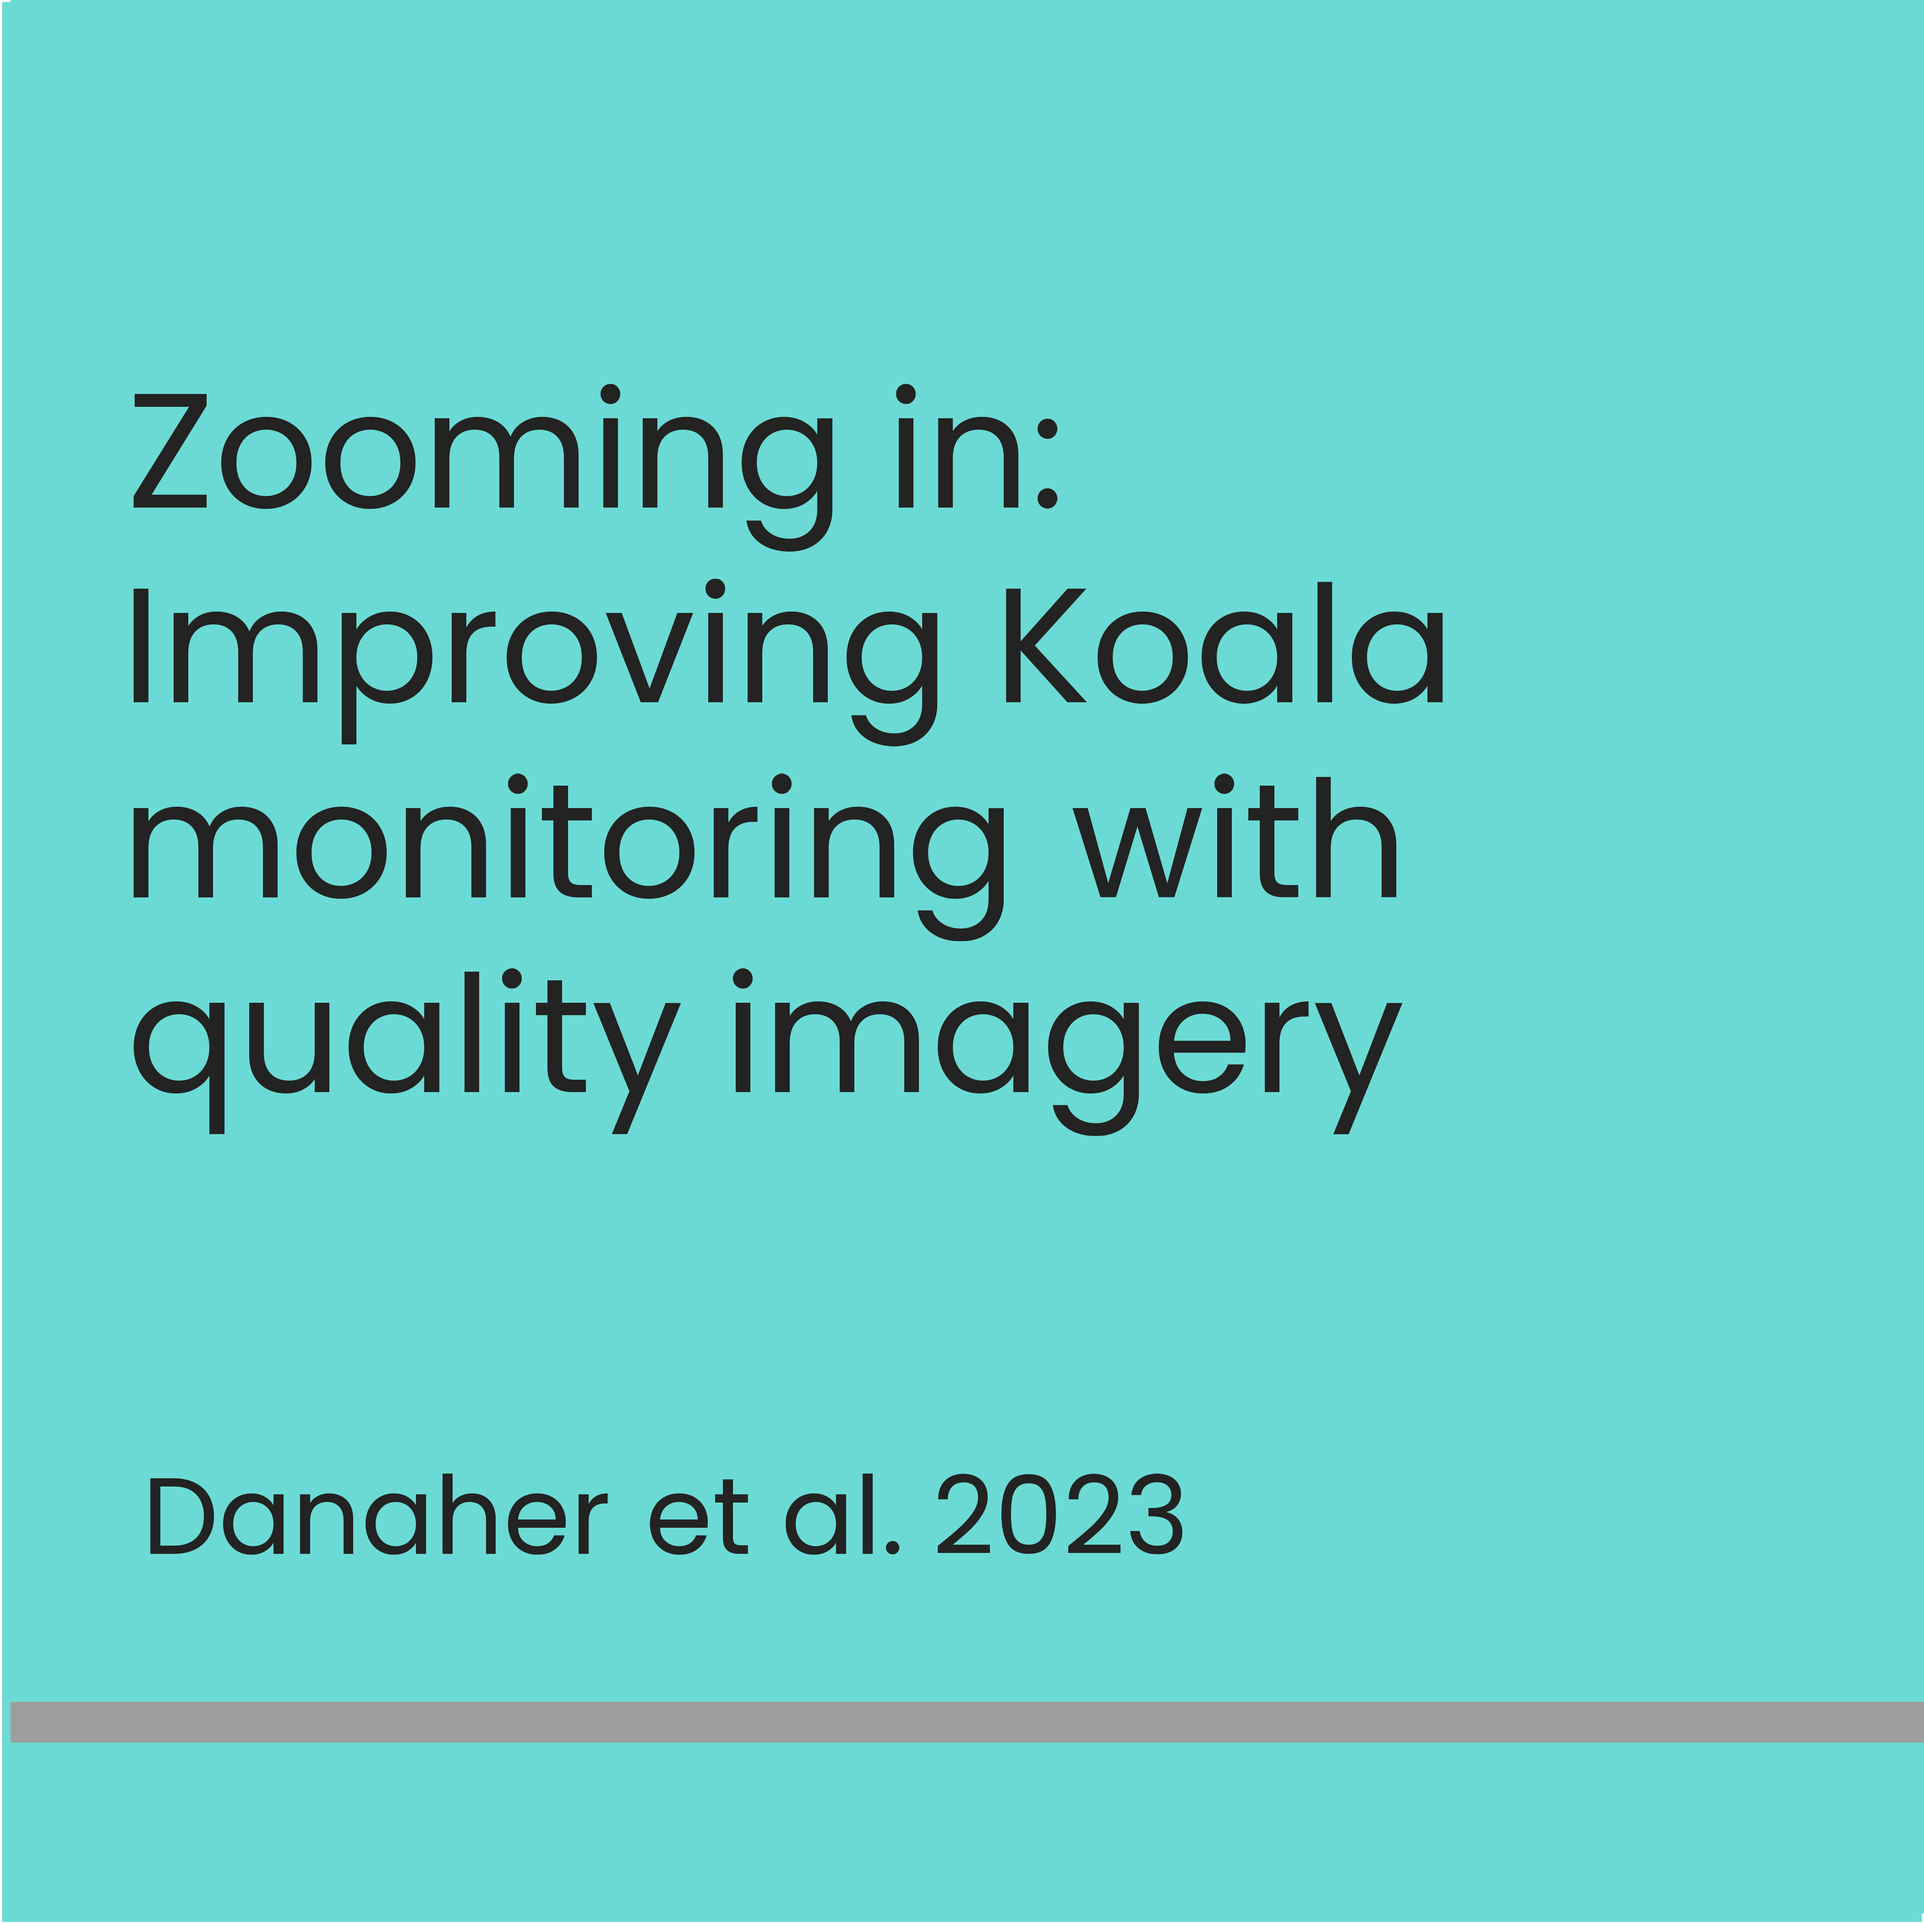
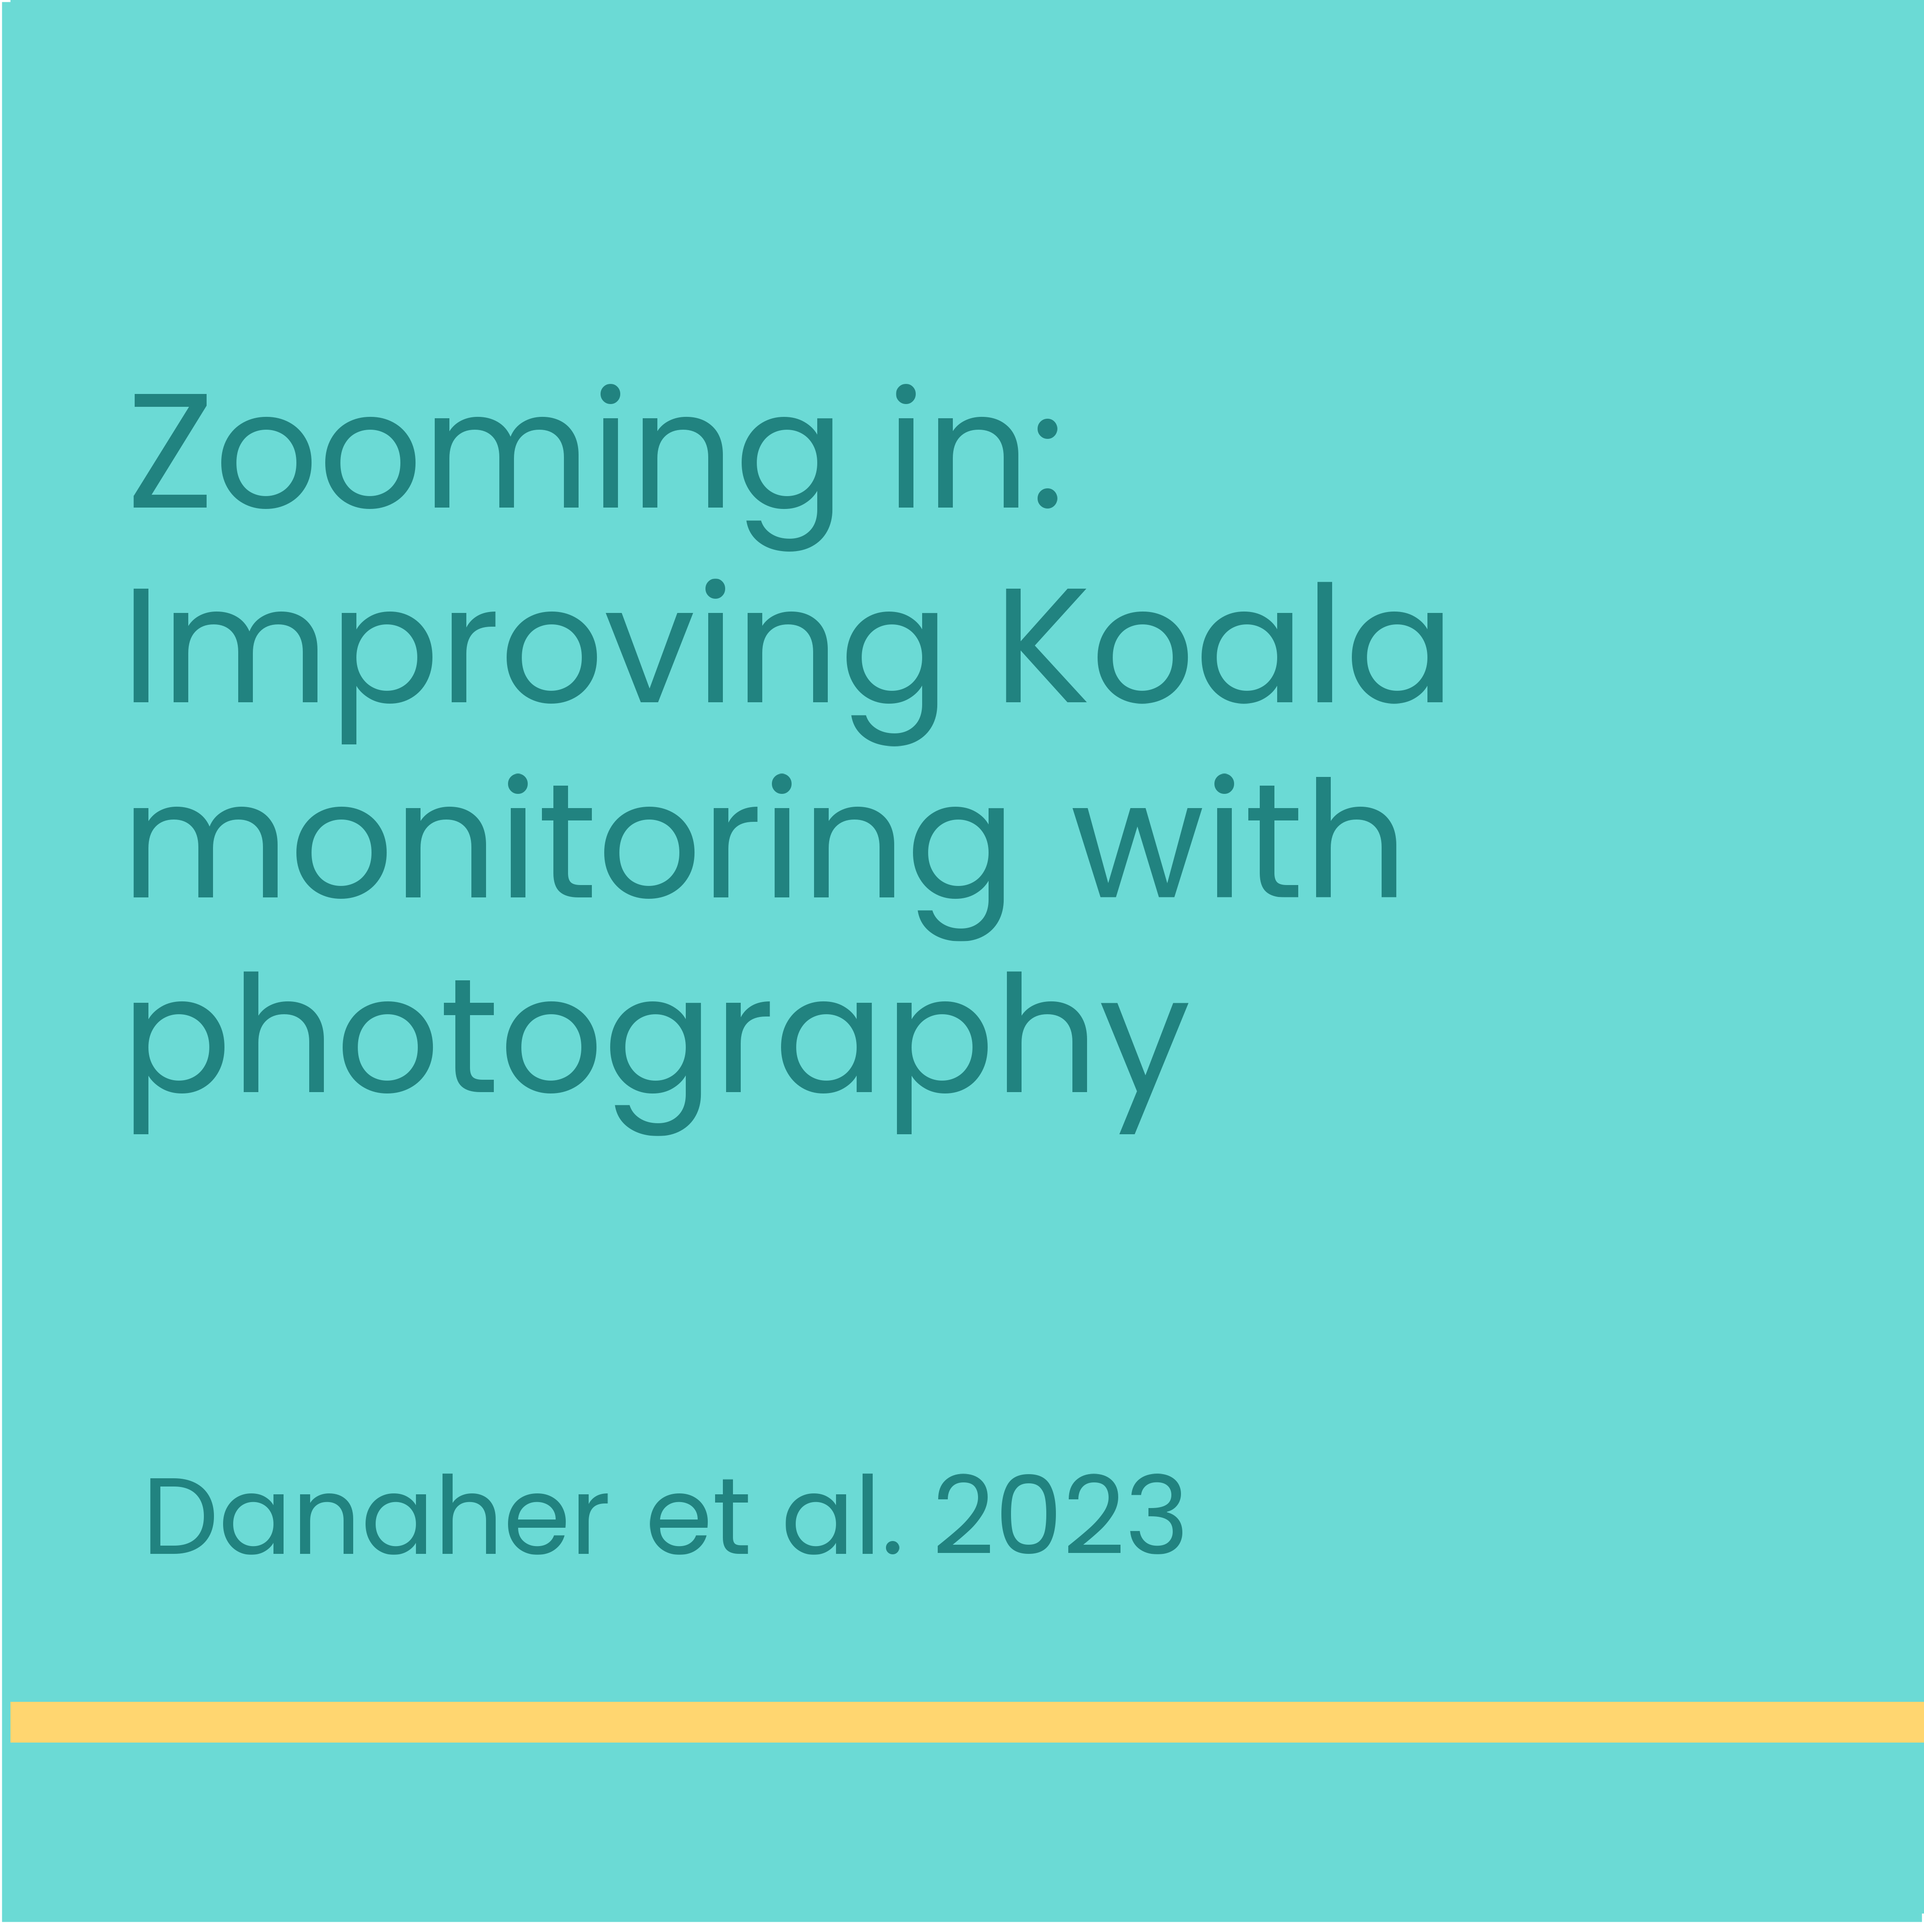
update koala photog post
* change colours of thumbnail
* include missing _footer file
* fix image link

diff --git a/research/highlights/2024-1-11_koalaphotography/_footer.html b/research/highlights/2024-1-11_koalaphotography/_footer.html
@@ -1,0 +1,311 @@
+<!-- ALA Template Footer -->
+
+<style>
+
+/*-- Copyright --*/
+
+.copyright-container {
+  display: flex!important;
+  width: 100%;
+  margin-bottom: 30px;
+  margin-top: 30px;
+}
+
+.copyright-row {
+  width: 100%;
+
+  position: relative;
+
+  background-color: #c44d34;
+  background-position: bottom;
+  background-size: cover;
+  display: flex;
+}
+
+.copyright-width {
+  display: flex;
+  width: 100%;
+  max-width: 1140px;
+  padding-left: 15px;
+  padding-right: 15px;
+  padding-bottom: 0px;
+  margin: auto;
+}
+
+.copyright-column-left {
+  float: left;
+  width: 50%;
+  max-width: 50%;
+  padding-left: 15px;
+  padding-right: 15px;
+  position: relative;
+  min-height: 1px;
+  display: flex!important;
+  flex-direction:column;
+  display:inline-block;
+}
+
+.copyright-column-right {
+  float: right;
+  text-align: right;
+  width: 50%;
+  max-width: 50%;
+  padding-left: 15px;
+  padding-right: 15px;
+  position: relative;
+  min-height: 1px;
+  display: flex!important;
+  flex-direction: column;
+  display:inline-block;
+}
+
+.copyright-text {
+  color: white;
+  font-size: 12px;
+  padding-top: 10px}
+
+.copyright-text a:hover {
+  color: #222322;
+}
+
+
+/*-- Logos and acknowledgement --*/
+
+.footer-container {
+  display: flex!important;
+  width: 100%;
+  max-width: 1140px;
+  padding-left: 15px;
+  padding-right: 15px;
+  padding-top: 50px;
+  padding-bottom: 50px;
+  margin: auto;
+}
+
+.distill-site-footer {
+  padding-top: 0px;
+  padding-bottom: 10px;
+  text-align: left;
+}
+
+.row-footer { /* Do not change the name of this column - it causes issues */
+    display: -ms-flexbox;
+    display: flex;
+    -ms-flex-wrap: wrap;
+    flex-wrap: wrap;
+}
+
+.column-footer { /* Do not change the name of this column - it causes issues */
+  float: left;
+  width: 50%;
+  max-width: 50%;
+  padding-left: 15px;
+  padding-right: 15px;
+  position: relative;
+  min-height: 1px;
+  display: flex;
+  flex-direction:column;
+  display:inline-block;
+}
+
+
+.footer-logo {
+  text-align: left;
+  margin:5px;
+}
+
+.footer-text {
+  font-family: "Lato", sans-serif;
+  font-weight: 700;
+  font-size: 1.1rem;
+  line-height: 1.2;
+  color: #565656;
+  text-align: left;
+}
+
+.footer-text-small {
+  font-family: Roboto,sans-serif;
+  font-size: .82rem;
+  font-weight: 400;
+  line-height: 1.5;
+  font-family: "Roboto", sans-serif;
+  font-weight: 400;
+  color: #565656;
+  text-align: left;
+  margin-top: 10px;
+}
+
+/*-- Back to ALA button --*/
+
+.link-container {
+  margin-top: 30px;
+  margin-bottom: 30px;
+  display: block;
+  width: 30em;
+  margin-left: auto;
+  margin-right: auto;
+}
+
+.link-button {
+  border: none;
+  color: #E06E53;
+  padding: 10px 15px;
+  text-align: center;
+  text-decoration: none;
+  display: inline-block;
+  font-size: 18px;
+  margin: 4px 2px;
+  transition-duration: 0.3s;
+  cursor: pointer;
+  background-color: white;
+  border: 2px solid #E06E53;
+  border-radius: 10px;
+}
+
+.link-button:hover {
+  background-color: #222322;
+  border: 2px solid #222322;
+  color: #E06E53;
+}
+
+.ala-icon {
+    height: 20px;
+    width: auto;
+    /* Other styles here */
+}
+
+@media screen and (max-width: 952px) {
+  .link-container {
+    margin: auto;
+    margin-top: 20px;
+    margin-bottom: 20px;
+  }
+
+  .footer-container {
+    width: 100%;
+    max-width: 100%;
+    display: flex;
+    flex-wrap: wrap;
+  }
+  .column-footer {
+    float:left;
+    width: 100%;
+    max-width: 100%;
+    display: block;
+    margin-top: 20px;
+  }
+  .link-container {
+    display: block;
+    width: 20em;
+    margin: auto;
+  }
+
+  .copyright-column-left {
+    width: 50%;
+  }
+
+  .copyright-column-right {
+    width: 50%;
+  }
+
+  .copyright-row {
+    height: 100px;
+    margin-bottom: -3.75vw;
+  }
+}
+
+.logo-ncris {
+  width: auto;
+  height: 109px;
+  margin-right: 15px;
+  margin-top: 20px;
+}
+
+.logo-csiro {
+  width: auto;
+  height: 109px;
+  margin-right: 15px;
+  margin-top: 20px;
+}
+
+.logo-gbif {
+  width: auto;
+  height: 109px;
+}
+
+@media (min-width: 992px) {}
+body .page-columns{
+  grid-column: screen-start/screen-end;
+  z-index: 998;
+  transform: translate3d(0, 0, 0);
+}
+}
+
+</style>
+
+<hr style="padding-top: 1px">
+
+<div class = "footer-container column-screen">
+
+  <!--<div class = "row-footer">-->
+    <div class = "column-footer">
+      <p class = "footer-text">The ALA is made possible by contributions from its partners, is supported
+      by
+      <a href = "https://www.education.gov.au/national-collaborative-research-infrastructure-strategy-ncris" class = "footer-link">NCRIS</a>, is hosted by
+             <a href = "https://csiro.au/" class = "footer-link">CSIRO</a>, and is the Australian node of
+             <a href = "https://www.gbif.org/en/" id = "d-article" class = "footer-link">GBIF</a>.
+      </p>
+      <a href = "https://www.education.gov.au/national-collaborative-research-infrastructure-strategy-ncris">
+        <img
+          src = "images/logos/NCRIS_logo.png"
+          class = "logo-ncris"
+          alt="NCRIS logo">
+        </img>
+        </a>
+      <a href = "https://csiro.au/">
+        <img
+          src = "images/logos/CSIRO_logo.png"
+          class = "logo-csiro"
+          alt="CSIRO logo">
+        </img>
+        </a>
+      <a href = "https://www.gbif.org/en/">
+        <img
+          src = "images/logos/GBIF_109px.png"
+          class = "logo-gbif"
+          alt="GBIF logo">
+        </img>
+        </a>
+    </div>
+    <div class = "column-footer" id = "footer-logo">
+      <p class = "footer-text"><strong>Acknowledgement of Traditional Owners and Country</strong></p>
+      <p class = "footer-text-small">The Atlas of Living Australia acknowledges Australia's Traditional Owners
+      and pays respect to the past and present Elders of the nation's Aboriginal
+      and Torres Strait Islander communities. We honour and celebrate the
+      spiritual, cultural and customary connections of Traditional Owners to
+      country and the biodiversity that forms part of that country.<br></br></p>
+    </div>
+<!--  </div>-->
+</div>
+
+<div class="copright-container column-screen">
+  <div class="copyright-row">
+     <div class="copyright-width">
+  		<div class="copyright-column-left">
+  				<p class="copyright-text">
+  					This work is licensed under a <a style = "color:#fff!important;" href="https://creativecommons.org/licenses/by/3.0/au/">Creative Commons Attribution 3.0 Australia License</a>
+  					<a rel="license" href="http://creativecommons.org/licenses/by/3.0/au/"><img alt="Creative Commons License" style="border-width:0" src="images/logos/cc-by.png"></img></a>
+  				</p>
+			</div><!--col end -->
+    	<div class="copyright-column-right">
+         <p class="copyright-text">
+           <a style = "color:#fff!important;" href="https://www.ala.org.au/terms-of-use#cy">Copyright</a>
+           &nbsp;&nbsp;
+           <a style = "color:#fff!important;" href="https://www.ala.org.au/terms-of-use">Terms of Use</a>
+           &nbsp;&nbsp;
+           <a style = "color:#fff!important;" href="https://status.ala.org.au/">System Status</a>
+         </p>
+      </div>
+    </div>
+	</div><!-- row end -->
+</div>
